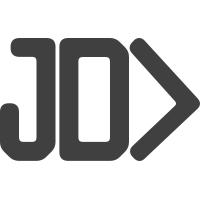
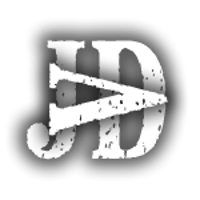
Add new version of signture

diff --git a/index.html b/index.html
@@ -12,7 +12,7 @@
                   <table style="width: 470px;" width="470" cellpadding="0" cellspacing="0" border="0">
                      <tbody>
                         <tr valign="top">
-                           <td style="padding-left:10px; width: 10px; padding-right:10px;"> <a href="https://jonatha.daguerre.com.br/about/"><img alt="JDV Logo" title="About Jonatha" src="https://jonatha.daguerre.com.br/email-signature/img/jdv.png" alt="photo" style="border-radius:0;moz-border-radius:0;khtml-border-radius:0;o-border-radius:0;webkit-border-radius:0;ms-border-radius: 0;width:65px;max-width: 120px;" width="65" ></a></td>
+                           <td style="padding-left:10px; width: 10px; padding-right:10px;"> <a href="https://jonatha.daguerre.com.br/about/"><img alt="JDV Logo" title="About Jonatha" src="https://jonatha.daguerre.com.br/email-signature/img/jdv-02.png" alt="photo" style="border-radius:0;moz-border-radius:0;khtml-border-radius:0;o-border-radius:0;webkit-border-radius:0;ms-border-radius: 0;width:65px;max-width: 120px;" width="65" ></a></td>
                            <td style="border-right: 1px solid #45668e;"></td>
                            <td style="text-align:initial; font:14px Arial;color:#646464;padding:0 10px">
                               <div> <b class="text-color theme-font">Jonatha Daguerre Vasconcelos</b><br>  </div>
